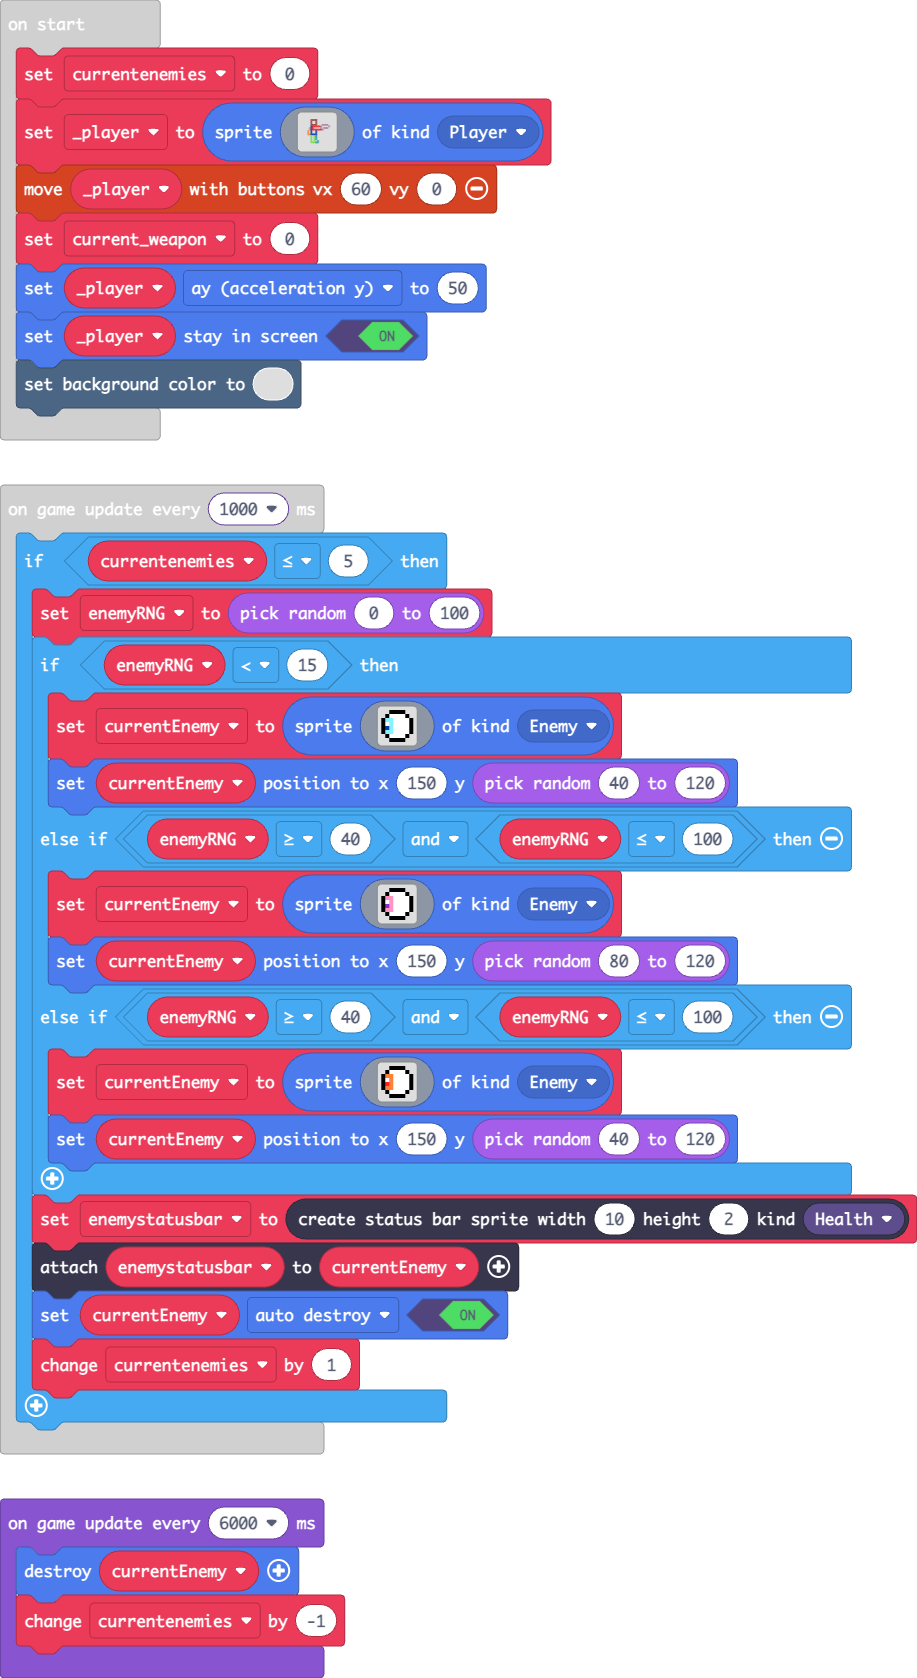
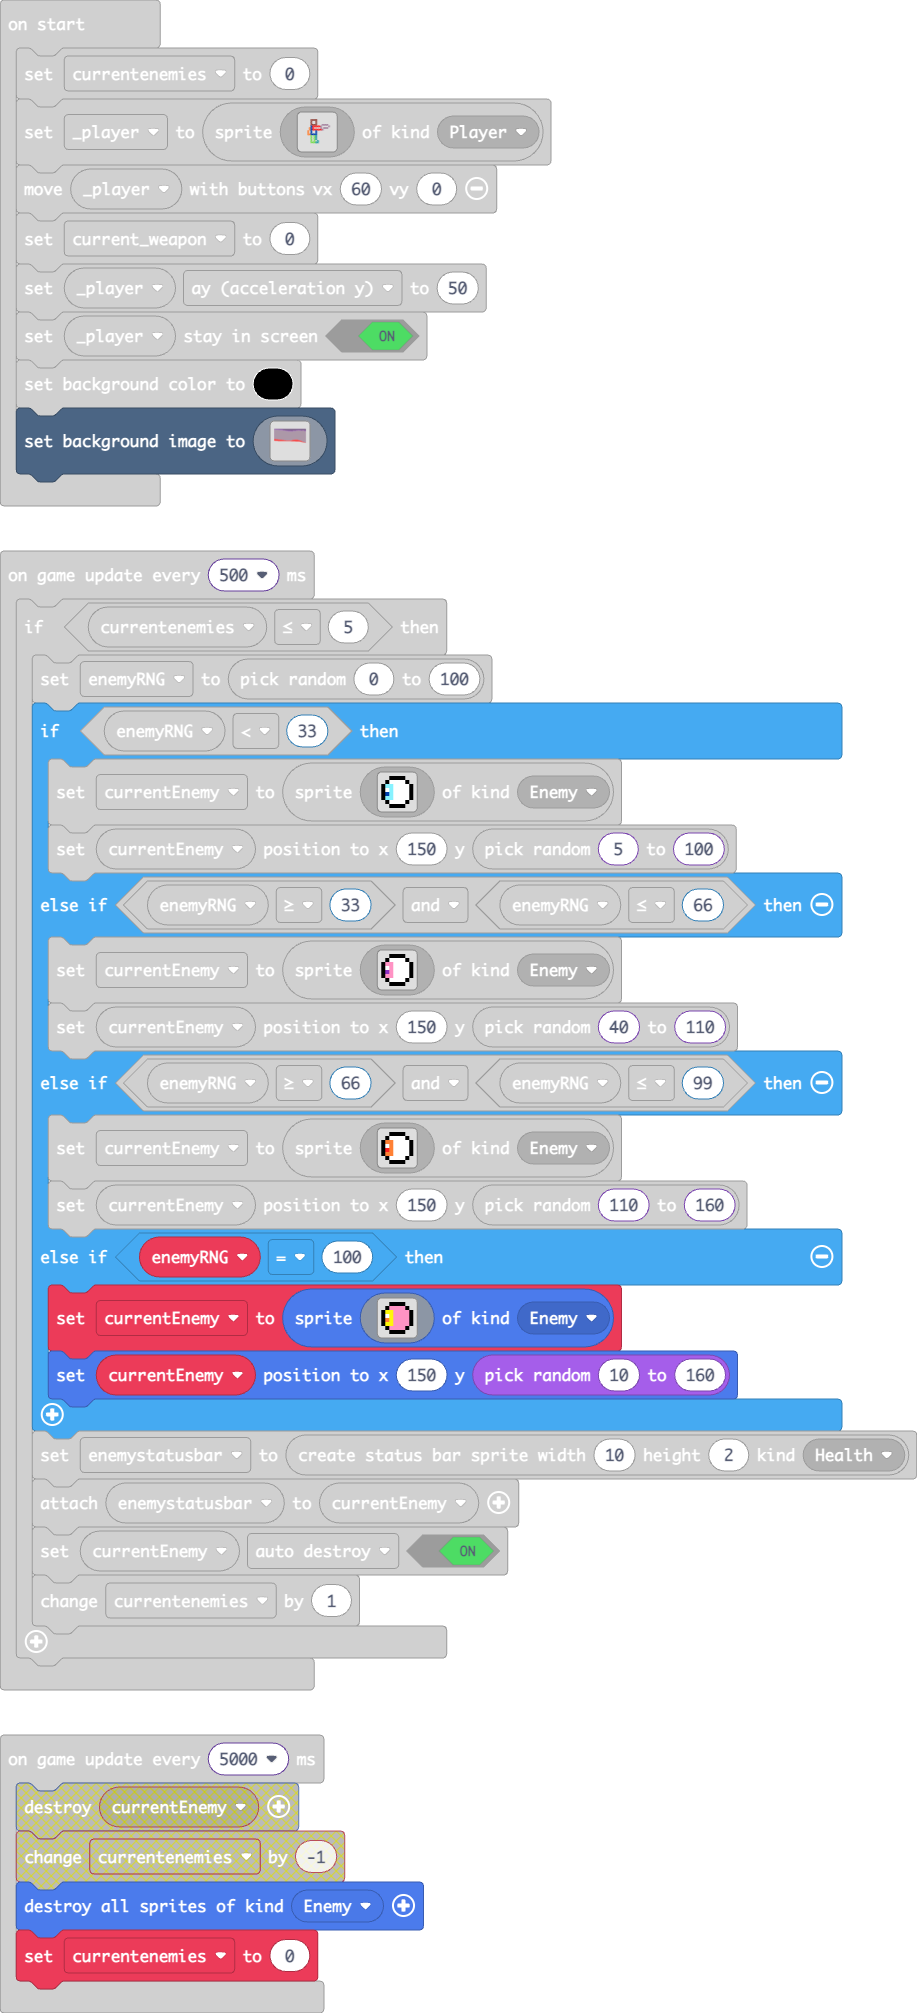
Update main.blocks, main.ts

diff --git a/main.ts b/main.ts
@@ -17,11 +17,11 @@ sprites.onOverlap(SpriteKind.Player, SpriteKind.Superplatform, function (sprite,
     sprite.setPosition(otherSprite.x, otherSprite.y - 45)
     sprites.destroy(otherSprite)
 })
-let currentPlatform: Sprite = null
-let platformRNG = 0
 let enemystatusbar: StatusBarSprite = null
 let currentEnemy: Sprite = null
 let enemyRNG = 0
+let currentPlatform: Sprite = null
+let platformRNG = 0
 let cooldown = 0
 let _player: Sprite = null
 let currentenemies = 0
@@ -30,59 +30,135 @@ controller.moveSprite(_player, 60, 0)
 let current_weapon = 0
 _player.ay = 50
 _player.setStayInScreen(true)
-scene.setBackgroundColor(0)
+scene.setBackgroundColor(15)
+scene.setBackgroundImage(img`
+    cccccccccccccccccccccccccccccccccccccccccccccccccccccccccccccccccccccccccccccccccccccccccccccccccccccccccccccccccccccccccccccccccccccccccccccccccccccccccccccccc
+    aaaaaaaaaaaccccccccccccccccccccccccccccccccccccccccccccccccccccccccccccccccccccccccccccccccccccccccccccccccccccccccccccccccccccccccccccccccccccccccccccccccccccc
+    aaaaaaaaaaaaaaaaaaaaaaaaaaaccccccccccccccccccccccccccccccccccccccccccccccccccccccccccccccccccccccccccccccccccccccccccccccccccccccccccccccccccccccccccccccccccccc
+    bbbbbbbbaaaaaaaaaaaaaaaaaaaaaaaaaaaaaaaaaaaccccccccccccccccccccccccccccccccccccccccccccccccccccccccccccccccccccccccccccccccccccccccccccccccccccccccccccccccccccc
+    bbbbbbbbbbbbbbbbbbbbbbbbaaaaaaaaaaaaaaaaaaaaaaaacccccccccccccccccccccccccccccccccccccccccccccccccccccccccccccccccccccccccccccccccccccccccccccccccccccccccccccccc
+    bbbbbbbbbbbbbbbbbbbbbbbbbbbbbbbbbbbbbbbbaaaaaaaccccccccccccccccccccccccccccccccccccccccccccccccccccccccccccccccccccccccaaaaaaaaaaacccccccccccccccccccccccccccccc
+    bbbbbbbbbbbbbbbbbbbbbbbbbbbbbbbbbbbbbbbbbbbbbbbaaaaaaaaaaaccccccccccccccccccccccccccccccccccccccccccccccccccccaaaaaaaaaaaaaaaaaaaaaaaaaaaaccccaaaaaaaaaaaccccccc
+    bbbbbbbbbbbbbbbbbbbbbbbbbbbbbbbbbbbbbbbbbbbbbbbaaaaaaaaaaaaaaaaccccccccccccccccccccccccccccccccaaaaaaaaaaaccccaaaaaaaaabbbbbbbbaaaaaaaaaaaaaaaaaaaaaaaaaaaaaaacc
+    bbbbbbbbbbbbbbbbbbbbbbbbbbbbbbbbbbbbbbbbbbbbbbbbbbbbbbbaaaaaaaaaaaaaaaaaaacccccccccccccccccccccaaaaaaaaaaaaaaabbbbbbbbabbbbbbbbbbbbbbbbaaaaaaabbbbbbbbaaaacccccc
+    bbbbbbbbbbbbbbbbbbbbbbbbbbbbbbbbbbbbbbbbbbbbbbbbbbbbbbbbbbbbbbbaaaaaaaaaaaaaaaaaaaaaaaaaaacccccbbbbbbbbaaaaaaabbbbbbbbbbbbbbbbbbbbbbbbbbbbbbbbbbbbbbbbbbbbaaaaaa
+    bbbbbbbbbbbbbbbbbbbbbbbbbbbbbbbbbbbbbbbbbbbbbbbbbbbbbbbbbbbbbbbbbbbbbbbaaaaaaaaaaaaaaaaaaaaaaaabbbbbbbbbbbbbbbbbbbbbbbbbbbbbbbbbbbbbbbbbbbbbbbbbbbbbbbbbbbaaaaaa
+    bbbbbbbbbbbbbbbbbbbbbbbbbbbbbbbbbbbbbbbbbbbbbbbbbbbbbbbbbbbbbbbbbbbbbbbbbbbbbbbbbbbbbbbaaaaaaaabbbbbbbbbbbbbbbbbbbbbbbbbbbbbbbbbbbbbbbbbbbbbbbbbbbbbbbbbbbbbbbbb
+    bbbbbbbbbbbbbbbbbbbbbbbbbbbbbbbbbbbbbbbbbbbbbbbbbbbbbbbbbbbbbbbbbbbbbbbbbbbbbbbbbbbbbbbbbbbbbbbbbbbbbbbbbbbbbbbbbbbbbbbbbbbbbbbbbbbbbbbbbbbbbbbbbbbbbbbbbbbbbbbb
+    bbbbbbbbbbbbbbbbbbbbbbbbbbbbbbbbbbbbbbbbbbbbbbbbbbbbbbbbbbbbbbbbbbbbbbbbbbbbbbbbbbbbbbbbbbbbbbbbbbbbbbbbbbbbbbbbbbbbbbbbbbbbbbbbbbbbbbbbbbbbbbbbbbbbbbbbbbbbbbbb
+    bbbbbbbbbbbbbbbbbbbbbbbbbbbbbbbbbbbbbbbbbbbbbbbbbbbbbbbbbbbbbbbbbbbbbbbbbbbbbbbbbbbbbbbbbbbbbbbbbbbbbbbbbbbbbbbbbbbbbbbbbbbbbbbbbbbbbbbbbbbbbbbbbbbbbbbbbbbbbbbb
+    bbbbbbbbbbbbbbbbbbbbbbbbbbbbbbbbbbbbbbbbbbbbbbbbbbbbbbbbbbbbbbbbbbbbbbbbbbbbbbbbbbbbbbbbbbbbbbbbbbbbbbbbbbbbbbbbbbbbbbbbbbbbbbbbbbbbbbbbbbbbbbbbbbbbbbbbbbbbbbbb
+    bbbbbbbbbbbbbbbbbbbbbbbbbbbbbbbbbbbbbbbbbbbbbbbbbbbbbbbbbbbbbbbbbbbbbbbbbbbbbbbbbbbbbbbbbbbbbbbbbbbbbbbbbbbbbbbbbbbbbbbbbbbbbbbbbbbbbbbbbbbbbbbbbbbbbbbbbbbbbbbb
+    bbbbbbbbbbbbbbbbbbbbbbbbbbbbbbbbbbbbbbbbbbbbbbbbbbbbbbbbbbbbbbbbbbbbbbbbbbbbbbbbbbbbbbbbbbbbbbbbbbbbbbbbbbbbbbbbbbbbbbbbbbbbbbbbbbbbbbbbbbbbbbbbbbbbbbbbbbbbbbbb
+    bbbbbbbbbbbbbbbbbbbbbbbbbbbbbbbbbbbbbbbbbbbbbbbbbbbbbbbbbbbbbbbbbbbbbbbbbbbbbbbbbbbbbbbbbbbbbbbbbbbbbbbbbbbbbbbbbbbbbbbbbbbbbbbbbbbbbbbbbbbbbbbbbbbbbbbbbbbbbbbb
+    bbbbbbbbbbbbbbbbbbbbbbbbbbbbbbbbbbbbbbbbbbbbbbbbbbbbbbbbbbbbbbbbbbbbbbbbbbbbbbbbbbbbbbbbbbbbbbbbbbbbbbbbbbbbbbbbbbbbbbbbbbbbbbbbbbbbbbbbbbbbbbbbbbbbbbbbbbbbbbbb
+    bbbbbbbbbbbbbbbbbbbbbbbbbbbbbbbbbbbbbbbbbbbbbbbbbbbbbbbbbbbbbbbbbbbbbbbbbbbbbbbbbbbbbbbbbbbbbbbbbbbbbbbbbbbbbbbbbbbbbbbbbbbbbbbbbbbbbbbbbbbbbbbbbbbbbbbbbbbbbbbb
+    bbbbbbbbbbbbbbbbbbbbbbbbbbbbbbbbbbbbbbbbbbbbbbbbbbbbbbbbbbbbbbbbbbbbbbbbbbbbbbbbbbbbbbbbbbbbbbbbbbbbbbbbbbbbbbbbbbbbbbbbbbbbbbbbbbbbbbbbbbbbbbbbbbbbbbbbbbbbbbbb
+    bbbbbbbbbbbbbbbbbbbbbbbbbbbbbbbbbbbbbbbbbbbbbbbbbbbbbbbbbbbbbbbbbbbbbbbbbbbbbbbbbbbbbbbbbbbbbbbbbbbbbbbbbbbbbbbbbbbbbbbbbbbbbbbbbbbbbbbbbbbbbbbbbbbbbbbbbbbbbbbb
+    bbbbbbbbbbbbbbbbbbbbbbbbbbbbbbbbbbbbbbbbbbbbbbbbbbbbbbbbbbbbbbbbbbbbbbbbbbbbbbbbbbbbbbbbbbbbbbbbbbbbbbbbbbbbbbbbbbbbbbbbbbbbbbbbbbbbbbbbbbbbbbbbbbbbbbbbbbbbbbbb
+    bbbbbbbbbbbbbbbbbbbbbbbbbbbbbbbbbbbbbbbbbbbbbbbbbbbbbbbbbbbbbbbbbbbbbbbbbbbbbbbbbbbbbbbbbbbbbbbbbbbbbbbbbbbbbbbbbbbbbbbbbbbbbbbbbbbbbbbbbbbbbbbbbbbbbbbbbbbbbbbb
+    bbbbbbbbbbbbbbbbbbbbbbbbbbbbbbbbbbbbbbbbbbbbbbbbbbbbbbbbbbbbbbbbbbbbbbbbbbbbbbbbbbbbbbbbbbbbbbbbbbbbbbbbbbbbbbbbbbbbbbbbbbbbbbbbbbbbbbbbbbbbbbbbbbbbbbbbbbbbbbbb
+    bbbbbbbbbbbbbbbbbbbbbbbbbbbbbbbbbbbbbbbbbbbbbbbbbbbbbbbbbbbbbbbbbbbbbbbbbbbbbbbbbbbbbbbbbbbbbbbbbbbbbbbbbbbbbbbbbbbbbbbbbbbbbbbbbbbbbbbbbbbbbbbbbbbbbbbbbbbbbbbb
+    bbbbbbbbbbbbbbbbbbbbbbbbbbbbbbbbbbbbbbbbbbbbbbbbbbbbbbbbbbbbbbbbbbbbbbbbbbbbbbbbbbbbbbbbbbbbbbbbbbbbbbbbbbbbbbbbbbbbbbbbbbbbbbbbbbbbbbbbbbbbbbbbbbbbbbbbbbbbbbbb
+    bbbbbbbbbbbbbbbbbbbbbbbbbbbbbbbbbbbbbbbbbbbbbbbbbbbbbbbbbbbbbbbbbbbbbbbbbbbbbbbbbbbbbbbbbbbbbbbbbbbbbbbbbbbbbbbbbbbbbbbbbbbbbbbbbbbbbbbbbbbbbbbbbbbbbbbbbbbbbbbb
+    bbbbbbbbbbbbbbbbbbbbbbbbbbbbbbbbbbbbbbbbbbbbbbbbbbbbbbbbbbbbbbbbbbbbbbbbbbbbbbbbbbbbbbbbbbbbbbbbbbbbbbbbbbbbbbbbbbbbbbbbbbbbbbbbbbbbbbbbbbbbbbbbbbbbbbbbbbbbbbbb
+    bbbbbbbbbbbbbbbbbbbbbbbbbbbbbbbbbbbbbbbbbbbbbbbbbbbbbbbbbbbbbbbbbbbbbbbbbbbbbbbbbbbbbbbbbbbbbbbbbbbbbbbbbbbbbbbbbbbbbbbbbbbbbbbbbbbbbbbbbbbbbbbbbbbbbbbbbbbbbbbb
+    bbbbbbbbbbbbbbbbbbbbbbbbbbbbbbbbbbbbbbbbbbbbbbbbbbbbbbbbbbbbbbbbbbbbbbbbbbbbbbbbbbbbbbbbbbbbbbbbbbbbbbbbbbbbbbbbbbbbbbbbbbbbbbbbbbbbbbbbbbbbbbbbbbbbbbbbbbbbbbbb
+    bbbbbbbbbbbbbbbbbbbbbbbbbbbbbbbbbbbbbbbbbbbbbbbbbbbbbbbbbbbbbbbbbbbbbbbbbbbbbbbbbbbbbbbbbbbbbbbbbbbbbbbbbbbbbbbbbbbbbbbbbbbbbbbbbbbbbbbbbbbbbbbbbbbbbbbbbbbbbbbb
+    bbbbbbbbbbbbbbbbbbbbbbbbbbbbbbbbbbbbbbbbbbbbbbbbbbbbbbbbbbbbbbbbbbbbbbbbbbbbbbbbbbbbbbbbbbbbbbbbbbbbbbbbbbbbbbbbbbbbbbbbbbbbbbbbbbbbbbbbbbbbbbbbbbbbbbbbbbbbbbbb
+    bbbbbbbbbbbbbbbbbbbbbbbbbbbbbbbbbbbbbbbbbbbbbbbbbbbbbbbbbbbbbbbbbbbbbbbbbbbbbbbbbbbbbbbbbbbbbbbbbbbbbbbbbbbbbbbbbbbbbbbbbbbbbbbbbbbbbbbbbbbbbbbbbbbbbbbbbbbbbbbb
+    bbbbbbbbbbbbbbbbbbbbbbbbbbbbbbbbbbbbbbbbbbbbbbbbbbbbbbbbbbbbbbbbbbbbbbbbbbbbbbbbbbbbbbbbbbbbbbbbbbbbbbbbbbbbbbbbbbbbbbbbbbbbbbbbbbbbbbbbbbbbbbbbbbbbbbbbbbbbbbbb
+    bbbbbbbbbbbbbbbbbbbbbbbbbbbbbbbbbbbbbbbbbbbbbbbbbbbbbbbbbbbbbbbbbbbbbbbbbbbbbbbbbbbbbbbbbbbbbbbbbbbbbbbbbbbbbbbbbbbbbbbbbbbbbbbbbbbbbbbbbbbbbbbbbbbbbbbbbbbbbbbb
+    bbbbbbbbbbbbbbbbbbbbbbbbbbbbbbbbbbbbbbbbbbbbbbbbbbbbbbbbbbbbbbbbbbbbbbbbbbbbbbbbbbbbbbbbbbbbbbbbbbbbbbbbbbbbbbbbbbbbbbbbbbbbbbbbbbbbbbbbbbbbbbbbbbbbbbbbbbbbbbbb
+    bbbbbbbbbbbbbbbbbbbbbbbbbbbbbbbbbbbbbbbbbbbbbbbbbbbbbbbbbbbbbbbbbbbbbbbbbbbbbbbbbbbbbbbbbbbbbbbbbbbbbbbbbbbbbbbbbbbbbbbbbbbbbbbbbbbbbbbbbbbbbbbbbbbbbbbbbbbbbbbb
+    bbbbbbbbbbbbbbbbbbbbbbbbbbbbbbbbbbbbbbbbbbbbbbbbbbbbbbbbbbbbbbbbbbbbbbbbbbbbbbbbbbbbbbbbbbbbbbbbbbbbbbbbbbbbbbbbbbbbbbbbbbbbbbbbbbbbbbbbbbbbbbbbbbbbbbbbbbbbbbbb
+    bbbbbbbbbbbbbbbbbbbbbbbbbbbbbbbbbbbbbbbbbbbbbbbbbbbbbbbbbbbbbbbbbbbbbbbbbbbbbbbbbbbbbbbbbbbbbbbbbbbbbbbbbbbbbbbbbbbbbbbbbbbbbbbbbbbbbbbbbbbbbbbbbbbbbbbbbbbbbbbb
+    bbbbbbbbbbbbbbbbbbbbbbbbbbbbbbbbbbbbbbbbbbbbbbbbbbbbbbbbbbbbbbbbbbbbbbbbbbbbbbbbbbbbbbbbbbbbbbbbbbbbbbbbbbbbbbbbbbbbbbbbbbbbbbbbbbbbbbbbbbbbbbbbbbbbbbbbbbbbbbbb
+    bbbbbbbbbbbbbbbbbbbbbbbbbbbbbbbbbbbbbbbbbbbbbbbbbbbbbbbbbbbbbbbbbbbbbbbbbbbbbbbbbbbbbbbbbbbbbbbbbbbbbbbbbbbbbbbbbbbbbbbbbbbbbbbbbbbbbbbbbbbbbbbbbbbbbbbbbbbbbbbb
+    bbbbbbbbbbbbbbbbbbbbbbbbbbbbbbbbbbbbbbbbbbbbbbbbbbbbbbbbbbbbbbbbbbbbbbbbbbbbbbbbbbbbbbbbbbbbbbbbbbbbbbbbbbbbbbbbbbbbbbbbbbbbbbbbbbbbbbbbbbbbbbbbbbbbbbbbbbbbbbbb
+    bbbbbbbbbbbbbbbbbbbbbbbbbbbbbbbbbbbbbbbbbbbbbbbbbbbbbbbbbbbbbbbbbbbbbbbbbbbbbbbbbbbbbbbbbbbbbbbbbbbbbbbbbbbbbbbbbbbbbbbbbbbbbbbbbbbbbbbbbbbbbbbbbbbbbbbbbbbbbbbb
+    bbbbbbbbbbbbbbbbbbbbbbbbbbbbbbbbbbbbbbbbbbbbbbbbbbbbbbbbbbbbbbbbbbbbbbbbbbbbbbbbbbbbbbbbbbbbbbbbbbbbbbbbbbbbbbbbbbbbbbbbbbbbbbbbbbbbbbbbbbbbbbbbbbbbbbbbbbbbbbbb
+    bbbbbbbbbbbbbbbbbbbbbbbbbbbbbbbbbbbbbbbbbbbbbbbbbbbbbbbbbbbbbbbbbbbbbbbbbbbbbbbbbbbbbbbbbbbbbbbbbbbbbbbbbbbbbbbbbbbbbbbbbbbbbbbbbbbbbbbbbbbbbbbbbbbbbbbbbbbbbbbb
+    bbbbbbbbbbbbbbbbbbbbbbbbbbbbbbbbbbbbbbbbbbbbbbbbbbbbbbbbbbbbbbbbbbbbbbbbbbbbbbbbbbbbbbbbbbbbbbbbbbbbbbbbbbbbbbbbbbbbbbbbbbbbbbbbbbbbbbbbbbbbbbbbbbbbbbbbbbbbbbbb
+    bbbbbbbbbbbbbbbbbbbbbbbbbbbbbbbbbbbbbbbbbbbbbbbbbbbbbbbbbbbbbbbbbbbbbbbbbbbbbbbbbbbbbbbbbbbbbbbbbbbbbbbbbbbbbbbbbbbbbbbbbbbbbbbbbbbbbbbbbbbbbbbbbbbbbbbbbbbbbbbb
+    bbbbbbbbbbbbbbbbbbbbbbbbbbbbbbbbbbbbbbbbbbbbbbbbbbbbbbbbbbbbbbbbbbbbbbbbbbbbbbbbbbbbbbbbbbbbbbbbbbbbbbbbbbbbbbbbbbbbbbbbbbbbbbbbbbbbbbbbbbbbbbbbbbbbbbbbbbbbbbbb
[8 lines of base64/hex data omitted]
+    ...22222222222222222222222222222222222222222222222222222222222222222222222222222222222222222222222222222222222222222222222222222222222bbbbbbbbbbbbbbbbbbbbbbbbbb
+    ...................22222222222222222222222222222222222222222222222222222222222222222222222222222222222222222222222222222222222222222222222bbbbbbbbbbbbbbbbbbbbbb
+    .....................................................................................222222222222222222222222222222222222222222222222222222bbbbbbbbbbbbbbbbbbbbb
+    ...........................................................................................................22222222222222222222222222222222222bbbbbbbbbbbbbbbbbb
+    ................................................................................................................................222222222222222bbbbbbbbbbbbbbbbb
+    .....................................................................................................................................222222222222bbbbbbbbbbbbbbb
+    ..........................................................................................................................................2222222222bbbbbbbbbbbb
+    ...............................................................................................................................................222222222bbbbbbbb
+    ...................................................................................................................................................222222222bbbb
+    ......................................................................................................................................................2222222222
+    ............................................................................................................................................................bbbb
+    ................................................................................................................................................................
+    ................................................................................................................................................................
+    ................................................................................................................................................................
+    ................................................................................................................................................................
+    ................................................................................................................................................................
+    ................................................................................................................................................................
+    ................................................................................................................................................................
+    ................................................................................................................................................................
+    ................................................................................................................................................................
+    ................................................................................................................................................................
+    ................................................................................................................................................................
+    ................................................................................................................................................................
+    ................................................................................................................................................................
+    ................................................................................................................................................................
+    ................................................................................................................................................................
+    ................................................................................................................................................................
+    ................................................................................................................................................................
+    ................................................................................................................................................................
+    ................................................................................................................................................................
+    ................................................................................................................................................................
+    ................................................................................................................................................................
+    ................................................................................................................................................................
+    ................................................................................................................................................................
+    ................................................................................................................................................................
+    ................................................................................................................................................................
+    ................................................................................................................................................................
+    ................................................................................................................................................................
+    ................................................................................................................................................................
+    ................................................................................................................................................................
+    ................................................................................................................................................................
+    ................................................................................................................................................................
+    ................................................................................................................................................................
+    ................................................................................................................................................................
+    ................................................................................................................................................................
+    ................................................................................................................................................................
+    ................................................................................................................................................................
+    ................................................................................................................................................................
+    ................................................................................................................................................................
+    ................................................................................................................................................................
+    ................................................................................................................................................................
+    ................................................................................................................................................................
+    ................................................................................................................................................................
+    ................................................................................................................................................................
+    ................................................................................................................................................................
+    ................................................................................................................................................................
+    ................................................................................................................................................................
+    ................................................................................................................................................................
+    ................................................................................................................................................................
+    ................................................................................................................................................................
+    ................................................................................................................................................................
+    ................................................................................................................................................................
+    `)
+game.onUpdateInterval(5000, function () {
+    sprites.destroyAllSpritesOfKind(SpriteKind.Enemy)
+    currentenemies = 0
+})
 game.onUpdateInterval(2000, function () {
     cooldown = 0
-})
-game.onUpdateInterval(1000, function () {
-    if (currentenemies <= 5) {
-        enemyRNG = randint(0, 100)
-        if (enemyRNG < 15) {
-            currentEnemy = sprites.create(img`
-                . . f f f f . . 
-                . f 1 1 1 1 f . 
-                f 9 9 1 1 1 1 f 
-                f 1 9 1 1 1 1 f 
-                f 8 9 1 1 1 1 f 
-                f 9 9 1 1 1 1 f 
-                . f 1 1 1 1 f . 
-                . . f f f f . . 
-                `, SpriteKind.Enemy)
-            currentEnemy.setPosition(150, randint(40, 120))
-        } else if (enemyRNG >= 40 && enemyRNG <= 100) {
-            currentEnemy = sprites.create(img`
-                . . f f f f . . 
-                . f 1 1 1 1 f . 
-                f 3 3 1 1 1 1 f 
-                f 1 3 1 1 1 1 f 
-                f a 3 1 1 1 1 f 
-                f 3 3 1 1 1 1 f 
-                . f 1 1 1 1 f . 
-                . . f f f f . . 
-                `, SpriteKind.Enemy)
-            currentEnemy.setPosition(150, randint(80, 120))
-        } else if (enemyRNG >= 40 && enemyRNG <= 100) {
-            currentEnemy = sprites.create(img`
-                . . f f f f . . 
-                . f 1 1 1 1 f . 
-                f 4 4 1 1 1 1 f 
-                f 1 4 1 1 1 1 f 
-                f 2 4 1 1 1 1 f 
-                f 4 4 1 1 1 1 f 
-                . f 1 1 1 1 f . 
-                . . f f f f . . 
-                `, SpriteKind.Enemy)
-            currentEnemy.setPosition(150, randint(40, 120))
-        }
-        enemystatusbar = statusbars.create(10, 2, StatusBarKind.Health)
-        enemystatusbar.attachToSprite(currentEnemy)
-        currentEnemy.setFlag(SpriteFlag.AutoDestroy, true)
-        currentenemies += 1
-    }
-})
-game.onUpdateInterval(6000, function () {
-    sprites.destroy(currentEnemy)
-    currentenemies += -1
 })
 game.onUpdateInterval(500, function () {
     platformRNG = randint(0, 100)
@@ -100,4 +176,62 @@ game.onUpdateInterval(500, function () {
     }
     currentPlatform.setVelocity(-50, 0)
     currentPlatform.setFlag(SpriteFlag.AutoDestroy, true)
+})
+game.onUpdateInterval(500, function () {
+    if (currentenemies <= 5) {
+        enemyRNG = randint(0, 100)
+        if (enemyRNG < 33) {
+            currentEnemy = sprites.create(img`
+                . . f f f f . . 
+                . f 1 1 1 1 f . 
+                f 9 9 1 1 1 1 f 
+                f 1 9 1 1 1 1 f 
+                f 8 9 1 1 1 1 f 
+                f 9 9 1 1 1 1 f 
+                . f 1 1 1 1 f . 
+                . . f f f f . . 
+                `, SpriteKind.Enemy)
+            currentEnemy.setPosition(150, randint(5, 100))
+        } else if (enemyRNG >= 33 && enemyRNG <= 66) {
+            currentEnemy = sprites.create(img`
+                . . f f f f . . 
+                . f 1 1 1 1 f . 
+                f 3 3 1 1 1 1 f 
+                f 1 3 1 1 1 1 f 
+                f a 3 1 1 1 1 f 
+                f 3 3 1 1 1 1 f 
+                . f 1 1 1 1 f . 
+                . . f f f f . . 
+                `, SpriteKind.Enemy)
+            currentEnemy.setPosition(150, randint(40, 110))
+        } else if (enemyRNG >= 66 && enemyRNG <= 99) {
+            currentEnemy = sprites.create(img`
+                . . f f f f . . 
+                . f 1 1 1 1 f . 
+                f 4 4 1 1 1 1 f 
+                f 1 4 1 1 1 1 f 
+                f 2 4 1 1 1 1 f 
+                f 4 4 1 1 1 1 f 
+                . f 1 1 1 1 f . 
+                . . f f f f . . 
+                `, SpriteKind.Enemy)
+            currentEnemy.setPosition(150, randint(110, 160))
+        } else if (enemyRNG == 100) {
+            currentEnemy = sprites.create(img`
+                . . f f f f . . 
+                . f 3 3 3 3 f . 
+                f 5 5 3 3 3 3 f 
+                f 1 5 3 3 3 3 f 
+                f 4 5 3 3 3 3 f 
+                f 5 5 3 3 3 3 f 
+                . f 3 3 3 3 f . 
+                . . f f f f . . 
+                `, SpriteKind.Enemy)
+            currentEnemy.setPosition(150, randint(10, 160))
+        }
+        enemystatusbar = statusbars.create(10, 2, StatusBarKind.Health)
+        enemystatusbar.attachToSprite(currentEnemy)
+        currentEnemy.setFlag(SpriteFlag.AutoDestroy, true)
+        currentenemies += 1
+    }
 })
